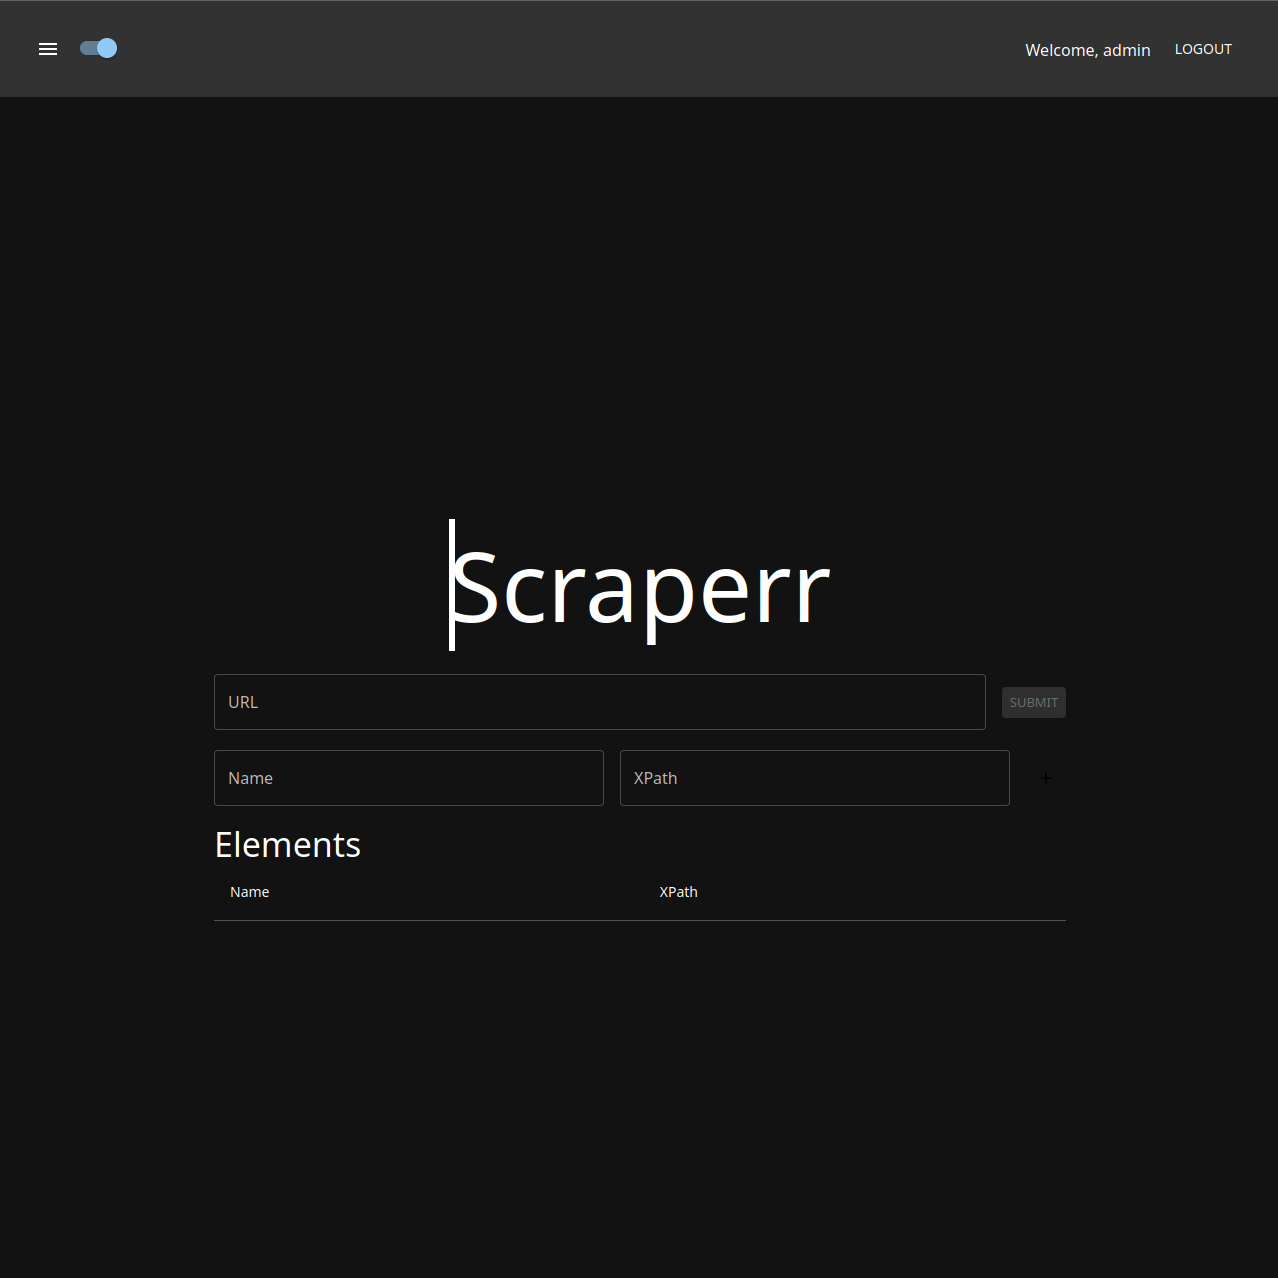
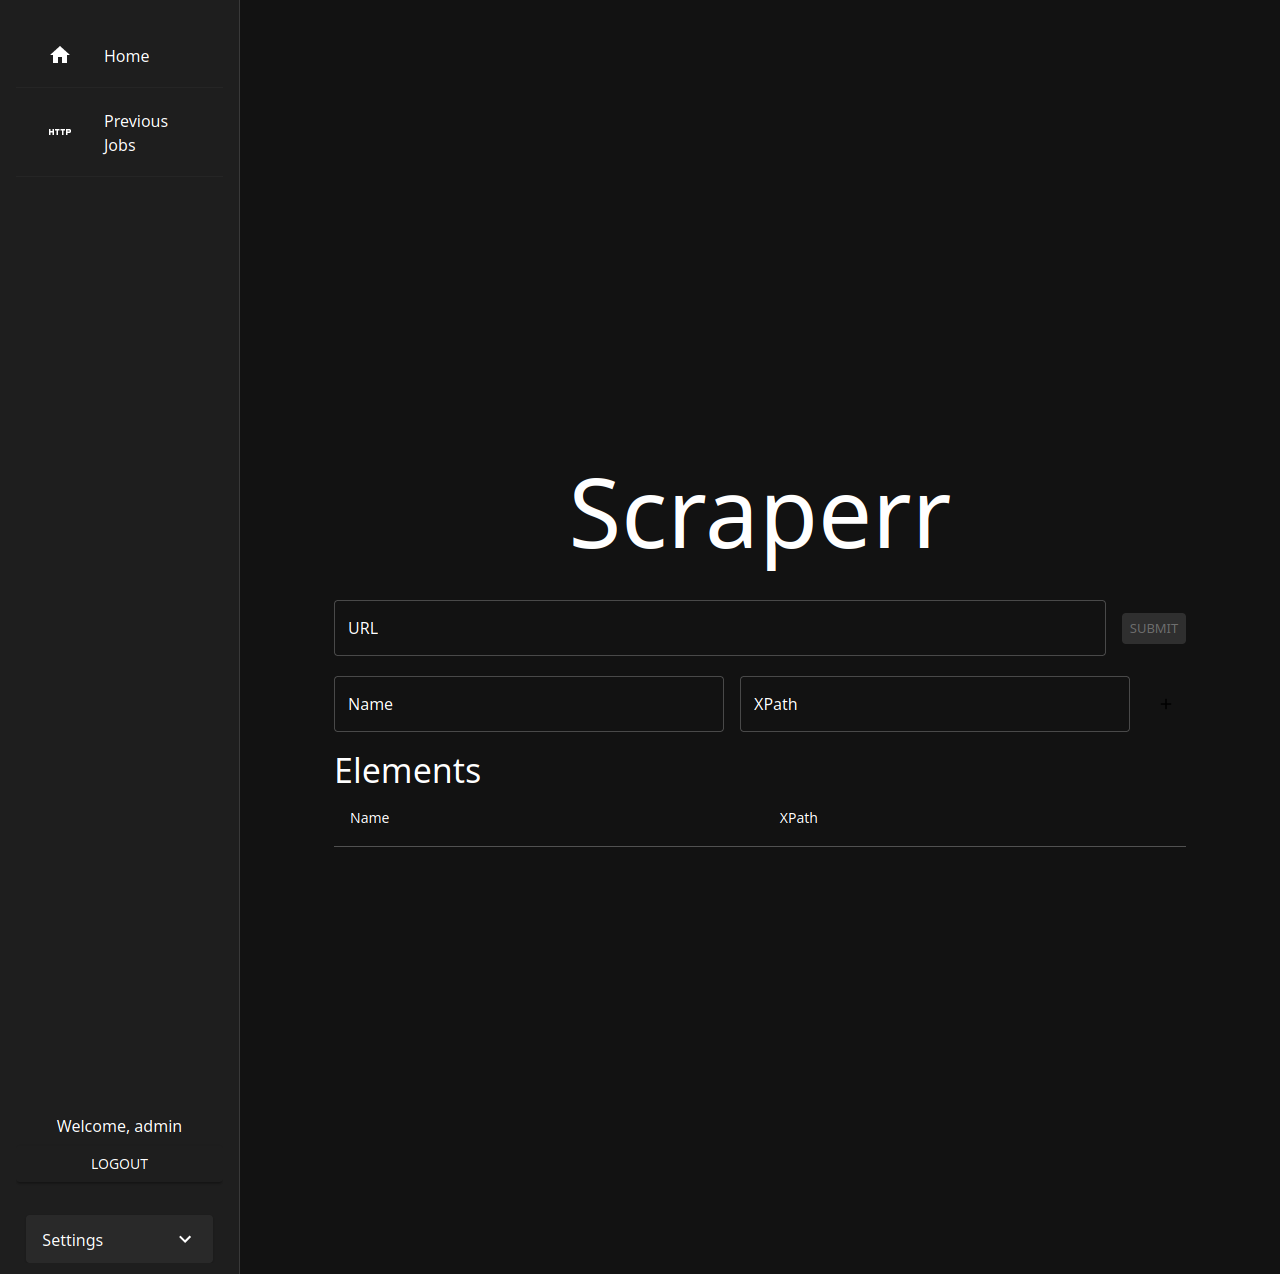
feat: edit layout of app

diff --git a/src/components/NavDrawer.tsx b/src/components/NavDrawer.tsx
@@ -1,113 +1,138 @@
-import React, { useState } from "react";
+import React from "react";
 import { useAuth } from "../contexts/AuthContext";
 import {
   Box,
-  Drawer,
   List,
   ListItem,
   ListItemIcon,
   ListItemButton,
   ListItemText,
-  AppBar,
-  Toolbar,
-  IconButton,
   Typography,
   Button,
   Switch,
   Tooltip,
+  Drawer,
+  Divider,
+  Accordion,
+  AccordionSummary,
+  AccordionDetails,
 } from "@mui/material";
 import HomeIcon from "@mui/icons-material/Home";
 import HttpIcon from "@mui/icons-material/Http";
-import MenuIcon from "@mui/icons-material/Menu";
+import ExpandMoreIcon from "@mui/icons-material/ExpandMore";
 import { useRouter } from "next/router";
+import { useTheme } from "@mui/material/styles";
 
 interface NavDrawerProps {
   toggleTheme: () => void;
   isDarkMode: boolean;
 }
 
+const drawerWidth = 240;
+
 const NavDrawer: React.FC<NavDrawerProps> = ({ toggleTheme, isDarkMode }) => {
   const router = useRouter();
-  const { login, logout, user, isAuthenticated } = useAuth();
-  const [open, setOpen] = useState<boolean>(false);
-
-  const toggleDrawer =
-    (open: boolean) => (event: React.KeyboardEvent | React.MouseEvent) => {
-      if (
-        event.type === "keydown" &&
-        ((event as React.KeyboardEvent).key === "Tab" ||
-          (event as React.KeyboardEvent).key === "Shift")
-      ) {
-        return;
-      }
-      setOpen(open);
-    };
-
-  const DrawerList = (
-    <Box
-      sx={{ width: 250 }}
-      role="presentation"
-      onClick={toggleDrawer(false)}
-      onKeyDown={toggleDrawer(false)}
-    >
-      <List>
-        <ListItem>
-          <ListItemButton onClick={() => router.push("/")}>
-            <ListItemIcon>
-              <HomeIcon />
-            </ListItemIcon>
-            <ListItemText>Home</ListItemText>
-          </ListItemButton>
-        </ListItem>
-        <ListItem>
-          <ListItemButton onClick={() => router.push("/jobs")}>
-            <ListItemIcon>
-              <HttpIcon />
-            </ListItemIcon>
-            <ListItemText>Previous Jobs</ListItemText>
-          </ListItemButton>
-        </ListItem>
-      </List>
-    </Box>
-  );
+  const theme = useTheme();
+  const { logout, user, isAuthenticated } = useAuth();
 
   return (
-    <>
-      <AppBar position="static">
-        <Toolbar className="flex flex-row justify-between items-center">
-          <div className="flex flex-row">
-            <IconButton
-              edge="start"
-              color="inherit"
-              aria-label="menu"
-              onClick={toggleDrawer(true)}
-            >
-              <MenuIcon />
-            </IconButton>
-            <Tooltip title="Dark Theme Toggle" placement="bottom">
-              <Switch checked={isDarkMode} onChange={toggleTheme} />
-            </Tooltip>
-          </div>
+    <Drawer
+      variant="permanent"
+      sx={{
+        width: drawerWidth,
+        flexShrink: 0,
+        [`& .MuiDrawer-paper`]: {
+          width: drawerWidth,
+          boxSizing: "border-box",
+        },
+      }}
+    >
+      <Box
+        sx={{
+          overflow: "auto",
+          display: "flex",
+          flexDirection: "column",
+          justifyContent: "space-between",
+          height: "100%",
+        }}
+      >
+        <div>
+          <List>
+            <ListItem>
+              <ListItemButton onClick={() => router.push("/")}>
+                <ListItemIcon>
+                  <HomeIcon />
+                </ListItemIcon>
+                <ListItemText primary="Home" />
+              </ListItemButton>
+            </ListItem>
+            <Divider />
+            <ListItem>
+              <ListItemButton onClick={() => router.push("/jobs")}>
+                <ListItemIcon>
+                  <HttpIcon />
+                </ListItemIcon>
+                <ListItemText primary="Previous Jobs" />
+              </ListItemButton>
+            </ListItem>
+            <Divider />
+          </List>
+        </div>
+        <Box
+          sx={{
+            display: "flex",
+            flexDirection: "column",
+            alignItems: "center",
+          }}
+        >
           {isAuthenticated ? (
-            <div className="flex flex-row items-center">
-              <Typography variant="body1" sx={{ marginRight: 2 }}>
+            <>
+              <Typography variant="body1" sx={{ margin: 1 }}>
                 Welcome, {user?.full_name}
               </Typography>
-              <Button color="inherit" onClick={logout} className="!color-white">
+              <Button
+                variant="contained"
+                color="primary"
+                onClick={logout}
+                sx={{
+                  width: "100%",
+                  color: theme.palette.mode === "light" ? "#000000" : "#ffffff",
+                }}
+              >
                 Logout
               </Button>
-            </div>
+            </>
           ) : (
-            <Button color="inherit" onClick={() => router.push("/login")}>
+            <Button
+              variant="contained"
+              color="primary"
+              onClick={() => router.push("/login")}
+              sx={{
+                width: "100%",
+                color: theme.palette.mode === "light" ? "#000000" : "#ffffff",
+              }}
+            >
               Login
             </Button>
           )}
-        </Toolbar>
-      </AppBar>
-      <Drawer open={open} onClose={toggleDrawer(false)}>
-        {DrawerList}
-      </Drawer>
-    </>
+          <Divider sx={{ marginTop: 2, marginBottom: 2 }}></Divider>
+          <Accordion sx={{ padding: 0, width: "90%" }}>
+            <AccordionSummary
+              expandIcon={<ExpandMoreIcon />}
+              aria-controls="panel1a-content"
+              id="panel1a-header"
+            >
+              <Typography>Settings</Typography>
+            </AccordionSummary>
+            <AccordionDetails>
+              <Tooltip title="Dark Theme Toggle" placement="bottom">
+                <Switch checked={isDarkMode} onChange={toggleTheme} />
+              </Tooltip>
+            </AccordionDetails>
+          </Accordion>
+        </Box>
+      </Box>
+    </Drawer>
   );
 };
 

diff --git a/src/pages/_app.tsx b/src/pages/_app.tsx
@@ -4,10 +4,12 @@ import "../styles/globals.css";
 import React, { useState, useEffect } from "react";
 import type { AppProps } from "next/app";
 import Head from "next/head";
-import { ThemeProvider, CssBaseline } from "@mui/material";
+import { ThemeProvider, CssBaseline, Box } from "@mui/material";
 import NavDrawer from "../components/NavDrawer";
 import { darkTheme, lightTheme } from "../styles/themes";
 import { AuthProvider } from "../contexts/AuthContext";
+
+const drawerWidth = 240;
 
 const App: React.FC<AppProps> = ({ Component, pageProps }) => {
   const [isDarkMode, setIsDarkMode] = useState(false);
@@ -38,8 +40,19 @@ const App: React.FC<AppProps> = ({ Component, pageProps }) => {
       <AuthProvider>
         <ThemeProvider theme={isDarkMode ? darkTheme : lightTheme}>
           <CssBaseline />
-          <NavDrawer isDarkMode={isDarkMode} toggleTheme={toggleTheme} />
-          <Component {...pageProps} />
+          <Box sx={{ display: "flex" }}>
+            <NavDrawer isDarkMode={isDarkMode} toggleTheme={toggleTheme} />
+            <Box
+              component="main"
+              sx={{
+                flexGrow: 1,
+                bgcolor: "background.default",
+                p: 3,
+              }}
+            >
+              <Component {...pageProps} />
+            </Box>
+          </Box>
         </ThemeProvider>
       </AuthProvider>
     </>
